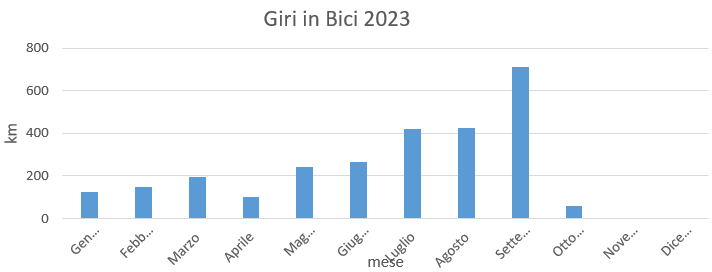
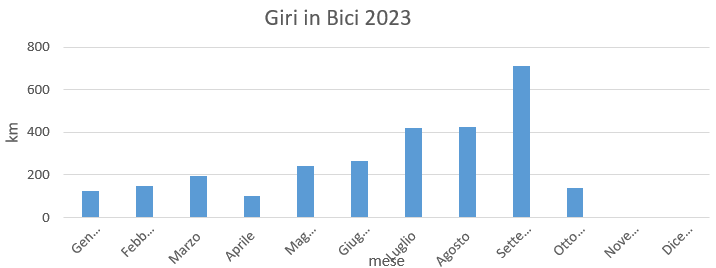
Add files via upload

diff --git a/Statistiche/Statistiche2023.html b/Statistiche/Statistiche2023.html
@@ -49,61 +49,61 @@
         <tr>
             <td>Gennaio</td>
             <td>127</td>
-            <td>4,70%</td>
+            <td>4,57%</td>
         </tr>
 
         <tr>
             <td>Febbraio</td>
             <td>148</td>
-            <td>5,48%</td>
+            <td>5,33%</td>
         </tr>
 
         <tr>
             <td>Marzo</td>
             <td>194</td>
-            <td>7,19%</td>
+            <td>6,99%</td>
         </tr>
 
         <tr>
             <td>Aprile</td>
             <td>103</td>
-            <td>3,81%</td>
+            <td>3,71%</td>
         </tr>
 
         <tr>
             <td>Maggio</td>
             <td>242</td>
-            <td>8,96%</td>
+            <td>8,72%</td>
         </tr>
 
         <tr>
             <td>Giugno</td>
             <td>265</td>
-            <td>9,81%</td>
+            <td>9,55%</td>
         </tr>
 
         <tr>
             <td>Luglio</td>
             <td>422</td>
-            <td>15,63%</td>
+            <td>15,20%</td>
         </tr>
 
         <tr>
             <td>Agosto</td>
             <td>426</td>
-            <td>15,78%</td>
+            <td>15,35%</td>
         </tr>
 
         <tr>
             <td>Settembre</td>
             <td>712</td>
-            <td>26,37%</td>
+            <td>25,65%</td>
         </tr>
 
         <tr>
             <td>Ottobre</td>
-            <td>61</td>
-            <td>2,26%</td>
+            <td>137</td>
+            <td>4,94%</td>
         </tr>
 
     </table>
@@ -114,10 +114,10 @@
 
     <br>
     <div class="colore">
-        <p>totale km 2.700
+        <p>totale km 2.776
             <img src="../Icone/traguardo.png">
         </p>
-        <p>km medi percorsi 62,79</p>
+        <p>km medi percorsi 63,09</p>
     </div>
     <br>
 

diff --git a/Statistiche.html b/Statistiche.html
@@ -86,7 +86,7 @@
             </td>
 
             <td>
-                21,20%
+                21,10%
             </td>
 
         </tr>
@@ -102,7 +102,7 @@
             </td>
 
             <td>
-                22,60%
+                22,40%
             </td>
         </tr>
 
@@ -116,7 +116,7 @@
             </td>
 
             <td>
-                32,90%
+                32,70%
             </td>
 
         </tr>
@@ -127,11 +127,11 @@
             </td>
 
             <td>
-                2.700
+                2.776
             </td>
 
             <td>
-                23,30%
+                23,80%
             </td>
 
         </tr>
@@ -161,11 +161,11 @@
 
     <div class="colore">
         <p>
-            totale km fatti 11.578
+            totale km fatti 11.654
             <img src="Icone/traguardo.png">
         </p>
 
-        <p>km medi percorsi 69,33 </p>
+        <p>km medi percorsi 69,37 </p>
 
     </div>
 

diff --git a/Autunno_Inverno/Autunno_Inverno2023-2024.html b/Autunno_Inverno/Autunno_Inverno2023-2024.html
@@ -59,14 +59,23 @@
             <td>km</td>
         </tr>
 
+        <tr>
+            <td>7 ottobre</td>
+            <td>2</td>
+            <td><a href="https://www.komoot.com/it-it/tour/1339854999?ref=wtd&share_token=apFmAPGBroU8MEblYvx0jOpf6dW6dyYpeYbvfa42jFhd0bb6hu"
+                    target="_blank">Colloredo di Monte Albano e Moruzzo</a></td>
+            <td>76</td>
+            <td>km</td>
+        </tr>
+
     </table>
 
     <br>
     <div class="colore">
-        <p> totale km 61
+        <p> totale km 137
             <img src="../Icone/traguardo.png">
         </p>
-        <p>km medi percorsi 61</p>
+        <p>km medi percorsi 68,50</p>
     </div>
 </body>
 

diff --git a/Giri.html b/Giri.html
@@ -251,11 +251,11 @@
     <a href="Statistiche.html">
         <div class="colore">
             <p>
-                totale km fatti 11.578
+                totale km fatti 11.654
                 <img src="Icone/traguardo.png">
             </p>
 
-            <p>km medi percorsi 69,33 </p>
+            <p>km medi percorsi 69,37 </p>
 
         </div>
     </a>

diff --git a/Autunno_Inverno.html b/Autunno_Inverno.html
@@ -106,7 +106,7 @@
                 </td>
     
                 <td>
-                    61
+                    137
                 </td>
             </tr>
 
